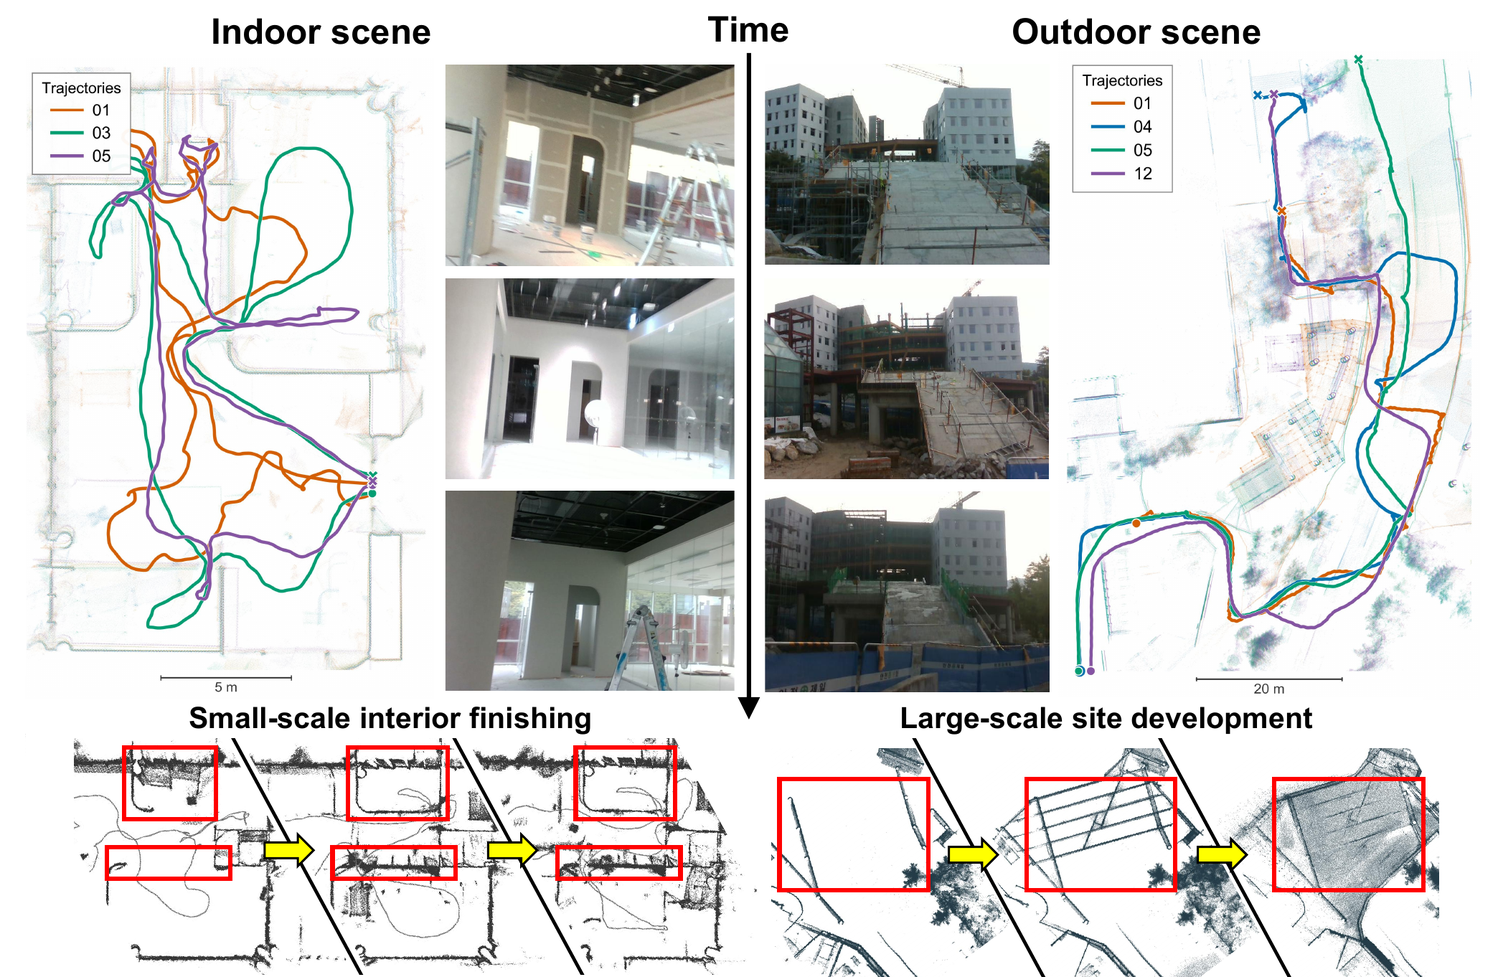
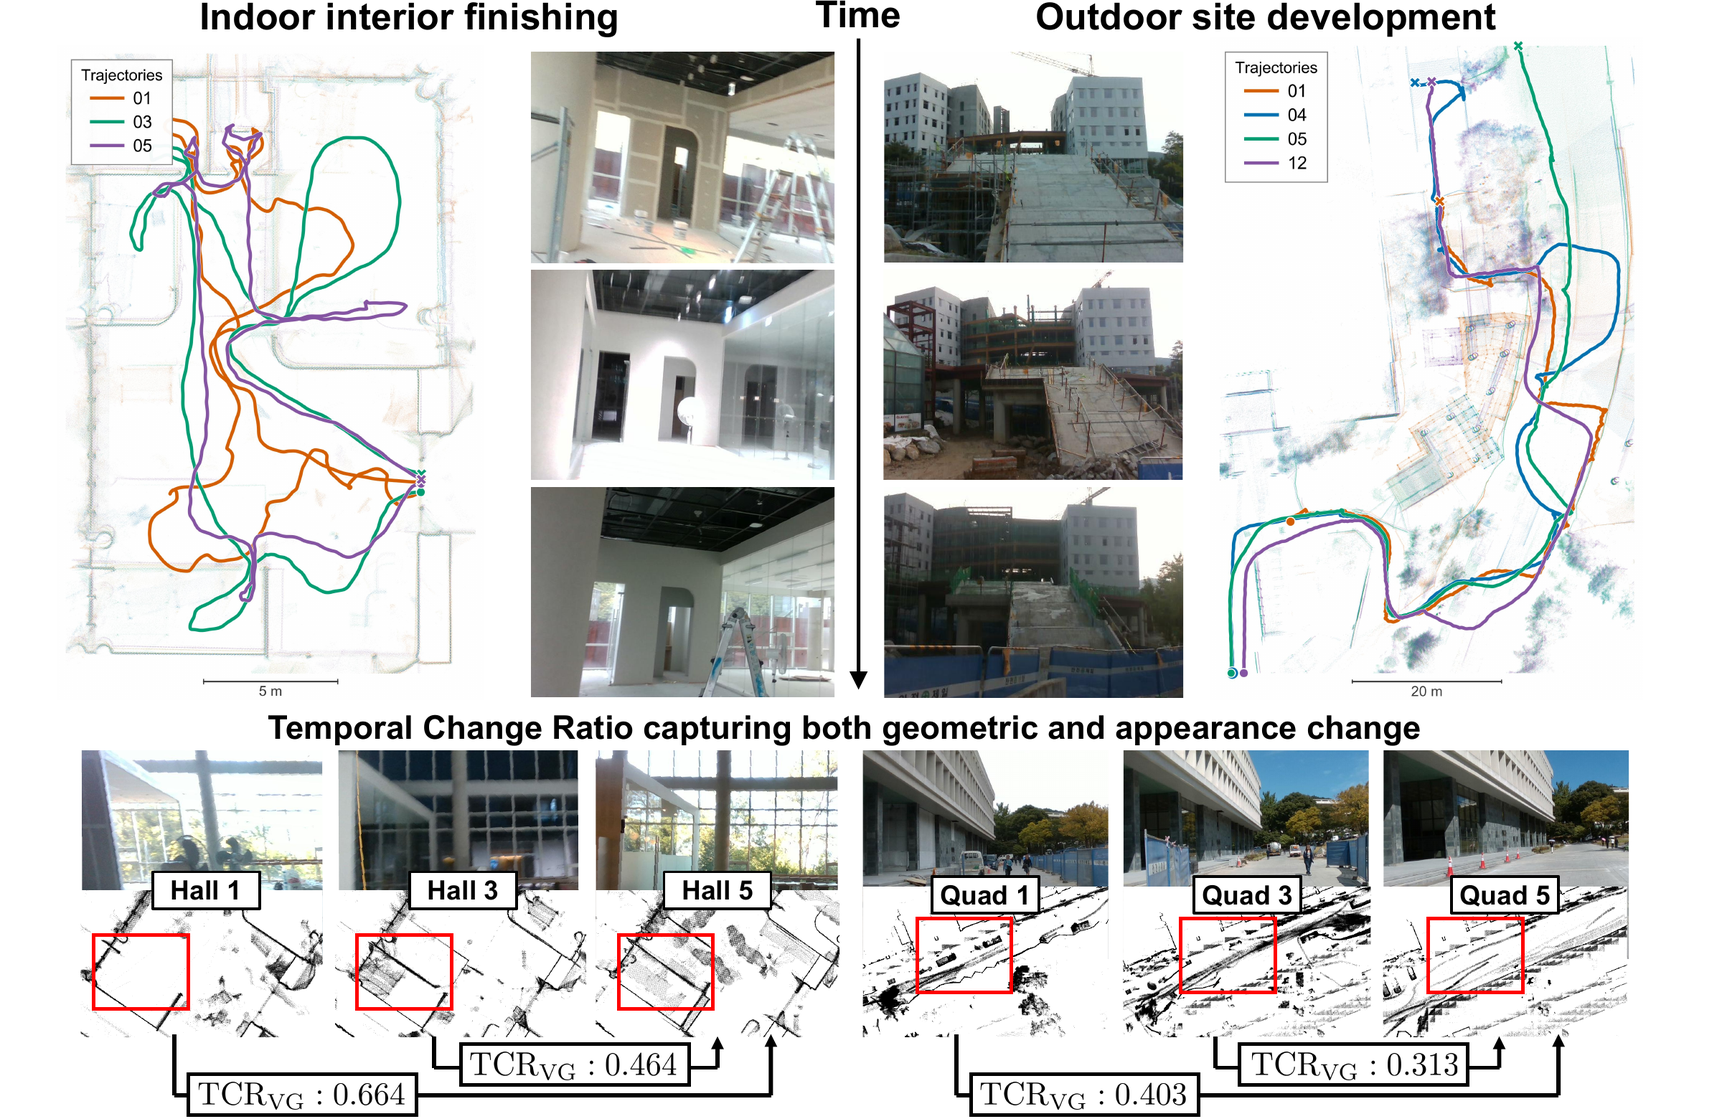
Refresh teaser and pair camera views with session point clouds

diff --git a/sequences.html b/sequences.html
@@ -3,11 +3,11 @@
 <head>
   <meta charset="utf-8">
   <meta name="viewport" content="width=device-width, initial-scale=1">
-  <meta name="description" content="Explore 22 ConPR++ recording sessions across Hall, Office, and Quad, with maps, trajectories, RGB examples, and session statistics.">
+  <meta name="description" content="Explore 22 ConPR++ recording sessions across Hall, Office, and Quad, with maps, trajectories, paired camera and LiDAR views, and session statistics.">
   <meta name="theme-color" content="#ffffff">
   <title>Sequences | ConPR++</title>
   <link rel="icon" href="./assets/favicon.svg" type="image/svg+xml">
-  <link rel="stylesheet" href="./assets/site.css?v=1628724484">
+  <link rel="stylesheet" href="./assets/site.css?v=5fd6f94d15">
 </head>
 <body>
 <a class="skip-link" href="#main">Skip to content</a>
@@ -76,12 +76,44 @@
         <div><dt>Images</dt><dd>12,032</dd></div>
       </dl>
     </div>
-    <div class="sample-strip">
-      <figure class="content-figure"><a href="./assets/images/sequences/hall-01.png" target="_blank" rel="noopener" aria-label="Enlarge the RGB sample for Hall, session 01"><img src="./assets/images/sequences/hall-01.png" width="528" height="297" loading="lazy" alt="Representative RGB observation from Hall, session 01, recorded during the day on 2026-09-05."></a><figcaption><strong>01</strong><time datetime="2026-09-05">2026-09-05</time><span>Day</span></figcaption></figure>
-      <figure class="content-figure"><a href="./assets/images/sequences/hall-03.png" target="_blank" rel="noopener" aria-label="Enlarge the RGB sample for Hall, session 03"><img src="./assets/images/sequences/hall-03.png" width="528" height="297" loading="lazy" alt="Representative RGB observation from Hall, session 03, recorded during the night on 2026-09-14."></a><figcaption><strong>03</strong><time datetime="2026-09-14">2026-09-14</time><span>Night</span></figcaption></figure>
-      <figure class="content-figure"><a href="./assets/images/sequences/hall-05.png" target="_blank" rel="noopener" aria-label="Enlarge the RGB sample for Hall, session 05"><img src="./assets/images/sequences/hall-05.png" width="528" height="297" loading="lazy" alt="Representative RGB observation from Hall, session 05, recorded during the day on 2026-09-22."></a><figcaption><strong>05</strong><time datetime="2026-09-22">2026-09-22</time><span>Day</span></figcaption></figure>
-    </div>
-    <p class="figure-note">Representative observations from selected sessions; viewpoints may differ between images.</p>
+    <section class="temporal-comparison" aria-labelledby="hall-changes">
+      <h3 id="hall-changes">Changes across sessions</h3>
+      <div class="session-comparison-grid">
+        <article class="session-comparison" aria-label="Hall, session 01, 2026-09-05">
+          <header class="session-comparison-heading"><h4>01</h4><time datetime="2026-09-05">2026-09-05</time><span class="time-tag">Day</span></header>
+          <figure class="content-figure">
+            <figcaption>Camera</figcaption>
+            <a href="./assets/images/sequences/temporal/hall-01-camera.png" target="_blank" rel="noopener" aria-label="Enlarge Camera for Hall, session 01"><img src="./assets/images/sequences/temporal/hall-01-camera.png" width="1280" height="720" loading="lazy" alt="Camera image from Hall, session 01, recorded on 2026-09-05."></a>
+          </figure>
+          <figure class="content-figure">
+            <figcaption>LiDAR (BEV)</figcaption>
+            <a href="./assets/images/sequences/temporal/hall-01-bev.png" target="_blank" rel="noopener" aria-label="Enlarge LiDAR (BEV) for Hall, session 01"><img src="./assets/images/sequences/temporal/hall-01-bev.png" width="1280" height="720" loading="lazy" alt="Bird’s-eye view of the LiDAR point cloud from Hall, session 01, recorded on 2026-09-05."></a>
+          </figure>
+        </article>
+        <article class="session-comparison" aria-label="Hall, session 03, 2026-09-14">
+          <header class="session-comparison-heading"><h4>03</h4><time datetime="2026-09-14">2026-09-14</time><span class="time-tag is-night">Night</span></header>
+          <figure class="content-figure">
+            <figcaption>Camera</figcaption>
+            <a href="./assets/images/sequences/temporal/hall-03-camera.png" target="_blank" rel="noopener" aria-label="Enlarge Camera for Hall, session 03"><img src="./assets/images/sequences/temporal/hall-03-camera.png" width="1280" height="720" loading="lazy" alt="Camera image from Hall, session 03, recorded on 2026-09-14."></a>
+          </figure>
+          <figure class="content-figure">
+            <figcaption>LiDAR (BEV)</figcaption>
+            <a href="./assets/images/sequences/temporal/hall-03-bev.png" target="_blank" rel="noopener" aria-label="Enlarge LiDAR (BEV) for Hall, session 03"><img src="./assets/images/sequences/temporal/hall-03-bev.png" width="1280" height="720" loading="lazy" alt="Bird’s-eye view of the LiDAR point cloud from Hall, session 03, recorded on 2026-09-14."></a>
+          </figure>
+        </article>
+        <article class="session-comparison" aria-label="Hall, session 05, 2026-09-22">
+          <header class="session-comparison-heading"><h4>05</h4><time datetime="2026-09-22">2026-09-22</time><span class="time-tag">Day</span></header>
+          <figure class="content-figure">
+            <figcaption>Camera</figcaption>
+            <a href="./assets/images/sequences/temporal/hall-05-camera.png" target="_blank" rel="noopener" aria-label="Enlarge Camera for Hall, session 05"><img src="./assets/images/sequences/temporal/hall-05-camera.png" width="1280" height="720" loading="lazy" alt="Camera image from Hall, session 05, recorded on 2026-09-22."></a>
+          </figure>
+          <figure class="content-figure">
+            <figcaption>LiDAR (BEV)</figcaption>
+            <a href="./assets/images/sequences/temporal/hall-05-bev.png" target="_blank" rel="noopener" aria-label="Enlarge LiDAR (BEV) for Hall, session 05"><img src="./assets/images/sequences/temporal/hall-05-bev.png" width="1280" height="720" loading="lazy" alt="Bird’s-eye view of the LiDAR point cloud from Hall, session 05, recorded on 2026-09-22."></a>
+          </figure>
+        </article>
+      </div>
+    </section>
     <div class="table-wrap" role="region" aria-label="Hall recording sessions" tabindex="0">
       <table class="data-table session-table">
         <caption>Hall recording sessions</caption>
@@ -113,12 +145,44 @@
         <div><dt>Images</dt><dd>137,178</dd></div>
       </dl>
     </div>
-    <div class="sample-strip">
-      <figure class="content-figure"><a href="./assets/images/sequences/office-01.png" target="_blank" rel="noopener" aria-label="Enlarge the RGB sample for Office, session 01"><img src="./assets/images/sequences/office-01.png" width="400" height="300" loading="lazy" alt="Representative RGB observation from Office, session 01, recorded during the day on 2023-05-31."></a><figcaption><strong>01</strong><time datetime="2023-05-31">2023-05-31</time><span>Day</span></figcaption></figure>
-      <figure class="content-figure"><a href="./assets/images/sequences/office-07.png" target="_blank" rel="noopener" aria-label="Enlarge the RGB sample for Office, session 07"><img src="./assets/images/sequences/office-07.png" width="400" height="300" loading="lazy" alt="Representative RGB observation from Office, session 07, recorded during the day on 2023-07-06."></a><figcaption><strong>07</strong><time datetime="2023-07-06">2023-07-06</time><span>Day</span></figcaption></figure>
-      <figure class="content-figure"><a href="./assets/images/sequences/office-12.png" target="_blank" rel="noopener" aria-label="Enlarge the RGB sample for Office, session 12"><img src="./assets/images/sequences/office-12.png" width="400" height="300" loading="lazy" alt="Representative RGB observation from Office, session 12, recorded during the day on 2023-08-18."></a><figcaption><strong>12</strong><time datetime="2023-08-18">2023-08-18</time><span>Day</span></figcaption></figure>
-    </div>
-    <p class="figure-note">Representative observations from selected sessions; viewpoints may differ between images.</p>
+    <section class="temporal-comparison" aria-labelledby="office-changes">
+      <h3 id="office-changes">Changes across sessions</h3>
+      <div class="session-comparison-grid">
+        <article class="session-comparison" aria-label="Office, session 03, 2023-06-11">
+          <header class="session-comparison-heading"><h4>03</h4><time datetime="2023-06-11">2023-06-11</time><span class="time-tag">Day</span></header>
+          <figure class="content-figure">
+            <figcaption>Camera</figcaption>
+            <a href="./assets/images/sequences/temporal/office-03-camera.png" target="_blank" rel="noopener" aria-label="Enlarge Camera for Office, session 03"><img src="./assets/images/sequences/temporal/office-03-camera.png" width="640" height="480" loading="lazy" alt="Camera image from Office, session 03, recorded on 2023-06-11."></a>
+          </figure>
+          <figure class="content-figure">
+            <figcaption>LiDAR (BEV)</figcaption>
+            <a href="./assets/images/sequences/temporal/office-03-bev.png" target="_blank" rel="noopener" aria-label="Enlarge LiDAR (BEV) for Office, session 03"><img src="./assets/images/sequences/temporal/office-03-bev.png" width="640" height="480" loading="lazy" alt="Bird’s-eye view of the LiDAR point cloud from Office, session 03, recorded on 2023-06-11."></a>
+          </figure>
+        </article>
+        <article class="session-comparison" aria-label="Office, session 11, 2023-08-13">
+          <header class="session-comparison-heading"><h4>11</h4><time datetime="2023-08-13">2023-08-13</time><span class="time-tag is-night">Night</span></header>
+          <figure class="content-figure">
+            <figcaption>Camera</figcaption>
+            <a href="./assets/images/sequences/temporal/office-11-camera.png" target="_blank" rel="noopener" aria-label="Enlarge Camera for Office, session 11"><img src="./assets/images/sequences/temporal/office-11-camera.png" width="640" height="480" loading="lazy" alt="Camera image from Office, session 11, recorded on 2023-08-13."></a>
+          </figure>
+          <figure class="content-figure">
+            <figcaption>LiDAR (BEV)</figcaption>
+            <a href="./assets/images/sequences/temporal/office-11-bev.png" target="_blank" rel="noopener" aria-label="Enlarge LiDAR (BEV) for Office, session 11"><img src="./assets/images/sequences/temporal/office-11-bev.png" width="640" height="480" loading="lazy" alt="Bird’s-eye view of the LiDAR point cloud from Office, session 11, recorded on 2023-08-13."></a>
+          </figure>
+        </article>
+        <article class="session-comparison" aria-label="Office, session 12, 2023-08-18">
+          <header class="session-comparison-heading"><h4>12</h4><time datetime="2023-08-18">2023-08-18</time><span class="time-tag">Day</span></header>
+          <figure class="content-figure">
+            <figcaption>Camera</figcaption>
+            <a href="./assets/images/sequences/temporal/office-12-camera.png" target="_blank" rel="noopener" aria-label="Enlarge Camera for Office, session 12"><img src="./assets/images/sequences/temporal/office-12-camera.png" width="640" height="480" loading="lazy" alt="Camera image from Office, session 12, recorded on 2023-08-18."></a>
+          </figure>
+          <figure class="content-figure">
+            <figcaption>LiDAR (BEV)</figcaption>
+            <a href="./assets/images/sequences/temporal/office-12-bev.png" target="_blank" rel="noopener" aria-label="Enlarge LiDAR (BEV) for Office, session 12"><img src="./assets/images/sequences/temporal/office-12-bev.png" width="640" height="480" loading="lazy" alt="Bird’s-eye view of the LiDAR point cloud from Office, session 12, recorded on 2023-08-18."></a>
+          </figure>
+        </article>
+      </div>
+    </section>
     <div class="table-wrap" role="region" aria-label="Office recording sessions" tabindex="0">
       <table class="data-table session-table">
         <caption>Office recording sessions</caption>
@@ -157,12 +221,44 @@
         <div><dt>Images</dt><dd>18,946</dd></div>
       </dl>
     </div>
-    <div class="sample-strip">
-      <figure class="content-figure"><a href="./assets/images/sequences/quad-01.png" target="_blank" rel="noopener" aria-label="Enlarge the RGB sample for Quad, session 01"><img src="./assets/images/sequences/quad-01.png" width="528" height="297" loading="lazy" alt="Representative RGB observation from Quad, session 01, recorded during the day on 2026-09-17."></a><figcaption><strong>01</strong><time datetime="2026-09-17">2026-09-17</time><span>Day</span></figcaption></figure>
-      <figure class="content-figure"><a href="./assets/images/sequences/quad-03.png" target="_blank" rel="noopener" aria-label="Enlarge the RGB sample for Quad, session 03"><img src="./assets/images/sequences/quad-03.png" width="528" height="297" loading="lazy" alt="Representative RGB observation from Quad, session 03, recorded during the day on 2026-09-22."></a><figcaption><strong>03</strong><time datetime="2026-09-22">2026-09-22</time><span>Day</span></figcaption></figure>
-      <figure class="content-figure"><a href="./assets/images/sequences/quad-05.png" target="_blank" rel="noopener" aria-label="Enlarge the RGB sample for Quad, session 05"><img src="./assets/images/sequences/quad-05.png" width="528" height="297" loading="lazy" alt="Representative RGB observation from Quad, session 05, recorded during the day on 2026-10-06."></a><figcaption><strong>05</strong><time datetime="2026-10-06">2026-10-06</time><span>Day</span></figcaption></figure>
-    </div>
-    <p class="figure-note">Representative observations from selected sessions; viewpoints may differ between images.</p>
+    <section class="temporal-comparison" aria-labelledby="quad-changes">
+      <h3 id="quad-changes">Changes across sessions</h3>
+      <div class="session-comparison-grid">
+        <article class="session-comparison" aria-label="Quad, session 02, 2026-09-18">
+          <header class="session-comparison-heading"><h4>02</h4><time datetime="2026-09-18">2026-09-18</time><span class="time-tag">Day</span></header>
+          <figure class="content-figure">
+            <figcaption>Camera</figcaption>
+            <a href="./assets/images/sequences/temporal/quad-02-camera.png" target="_blank" rel="noopener" aria-label="Enlarge Camera for Quad, session 02"><img src="./assets/images/sequences/temporal/quad-02-camera.png" width="1280" height="720" loading="lazy" alt="Camera image from Quad, session 02, recorded on 2026-09-18."></a>
+          </figure>
+          <figure class="content-figure">
+            <figcaption>LiDAR (BEV)</figcaption>
+            <a href="./assets/images/sequences/temporal/quad-02-bev.png" target="_blank" rel="noopener" aria-label="Enlarge LiDAR (BEV) for Quad, session 02"><img src="./assets/images/sequences/temporal/quad-02-bev.png" width="1280" height="720" loading="lazy" alt="Bird’s-eye view of the LiDAR point cloud from Quad, session 02, recorded on 2026-09-18."></a>
+          </figure>
+        </article>
+        <article class="session-comparison" aria-label="Quad, session 04, 2026-09-29">
+          <header class="session-comparison-heading"><h4>04</h4><time datetime="2026-09-29">2026-09-29</time><span class="time-tag">Day</span></header>
+          <figure class="content-figure">
+            <figcaption>Camera</figcaption>
+            <a href="./assets/images/sequences/temporal/quad-04-camera.png" target="_blank" rel="noopener" aria-label="Enlarge Camera for Quad, session 04"><img src="./assets/images/sequences/temporal/quad-04-camera.png" width="1280" height="720" loading="lazy" alt="Camera image from Quad, session 04, recorded on 2026-09-29."></a>
+          </figure>
+          <figure class="content-figure">
+            <figcaption>LiDAR (BEV)</figcaption>
+            <a href="./assets/images/sequences/temporal/quad-04-bev.png" target="_blank" rel="noopener" aria-label="Enlarge LiDAR (BEV) for Quad, session 04"><img src="./assets/images/sequences/temporal/quad-04-bev.png" width="1280" height="720" loading="lazy" alt="Bird’s-eye view of the LiDAR point cloud from Quad, session 04, recorded on 2026-09-29."></a>
+          </figure>
+        </article>
+        <article class="session-comparison" aria-label="Quad, session 05, 2026-10-06">
+          <header class="session-comparison-heading"><h4>05</h4><time datetime="2026-10-06">2026-10-06</time><span class="time-tag">Day</span></header>
+          <figure class="content-figure">
+            <figcaption>Camera</figcaption>
+            <a href="./assets/images/sequences/temporal/quad-05-camera.png" target="_blank" rel="noopener" aria-label="Enlarge Camera for Quad, session 05"><img src="./assets/images/sequences/temporal/quad-05-camera.png" width="1280" height="720" loading="lazy" alt="Camera image from Quad, session 05, recorded on 2026-10-06."></a>
+          </figure>
+          <figure class="content-figure">
+            <figcaption>LiDAR (BEV)</figcaption>
+            <a href="./assets/images/sequences/temporal/quad-05-bev.png" target="_blank" rel="noopener" aria-label="Enlarge LiDAR (BEV) for Quad, session 05"><img src="./assets/images/sequences/temporal/quad-05-bev.png" width="1280" height="720" loading="lazy" alt="Bird’s-eye view of the LiDAR point cloud from Quad, session 05, recorded on 2026-10-06."></a>
+          </figure>
+        </article>
+      </div>
+    </section>
     <div class="table-wrap" role="region" aria-label="Quad recording sessions" tabindex="0">
       <table class="data-table session-table">
         <caption>Quad recording sessions</caption>

diff --git a/assets/site.css b/assets/site.css
@@ -168,10 +168,15 @@ h2 { font-size: 30px; line-height: 1.3; letter-spacing: -.5px; font-weight: 700;
 .site-facts > div { margin-bottom: 14px; }
 .site-facts dt { color: #7b8592; font-size: 11px; margin-bottom: 2px; }
 .site-facts dd { margin: 0; color: #354255; font-weight: 550; font-variant-numeric: tabular-nums; }
-.sample-strip { display: grid; grid-template-columns: repeat(3, 1fr); gap: 18px; margin-top: 30px; }
-.sample-strip figcaption { display: flex; align-items: center; flex-wrap: wrap; gap: 4px 10px; font-size: 11px; }
-.sample-strip figcaption strong { color: #414d5d; font-size: 12px; }
-.sample-strip figcaption span { margin-left: auto; font-size: 10px; color: #8390a1; }
+.temporal-comparison { margin-top: 32px; }
+.session-comparison-grid { display: grid; grid-template-columns: repeat(3, minmax(0, 1fr)); gap: 24px; }
+.session-comparison { min-width: 0; }
+.session-comparison-heading { display: flex; align-items: baseline; flex-wrap: wrap; gap: 6px 10px; border-top: 2px solid #dce4ed; padding-top: 12px; margin-bottom: 16px; font-variant-numeric: tabular-nums; }
+.session-comparison-heading h4 { margin: 0; color: var(--ink); font-size: 17px; font-weight: 650; line-height: 1.5; }
+.session-comparison-heading time { font-size: 12px; color: #657080; }
+.session-comparison-heading .time-tag { margin-left: auto; }
+.session-comparison .content-figure + .content-figure { margin-top: 18px; }
+.session-comparison .content-figure figcaption { margin: 0 0 8px; font-size: 11px; font-weight: 550; color: #657080; }
 .session-table { min-width: 680px; }
 .time-tag { font-size: 11px; color: #6b7685; }
 .time-tag.is-night { color: #435f94; background: #edf1f8; border-radius: 3px; padding: 3px 7px; }
@@ -217,9 +222,8 @@ h2 { font-size: 30px; line-height: 1.3; letter-spacing: -.5px; font-weight: 700;
   .site-facts { padding: 18px 0 0; border-left: 0; border-top: 1px solid var(--line); display: grid; grid-template-columns: 1fr 1fr; gap: 16px; }
   .site-facts > div { margin-bottom: 0; }
   .site-facts > div:first-child { grid-column: 1 / -1; }
-  .sample-strip { grid-template-columns: 1fr; gap: 22px; }
-  .sample-strip img { max-width: 528px; margin: 0 auto; }
-  .sample-strip figcaption { max-width: 528px; margin-left: auto; margin-right: auto; }
+  .session-comparison-grid { grid-template-columns: 1fr; gap: 30px; }
+  .session-comparison { max-width: 528px; width: 100%; margin: 0 auto; }
   .data-table th, .data-table td { padding: 11px 13px; }
   .table-wrap { margin-top: 24px; }
   .content-section .figure-note, .content-section .table-note { font-size: 11px; }

diff --git a/index.html b/index.html
@@ -7,7 +7,7 @@
   <meta name="theme-color" content="#ffffff">
   <title>ConPR++: A Multi-Site Indoor-Outdoor Construction Dataset for Place Recognition under Progressive Structural Change</title>
   <link rel="icon" href="./assets/favicon.svg" type="image/svg+xml">
-  <link rel="stylesheet" href="./assets/site.css?v=1628724484">
+  <link rel="stylesheet" href="./assets/site.css?v=5fd6f94d15">
 </head>
 <body>
 <a class="skip-link" href="#main">Skip to content</a>
@@ -35,8 +35,8 @@
   </section>
 
   <figure class="teaser">
-    <a class="teaser-link" href="./assets/images/teaser.png" target="_blank" rel="noopener" aria-label="View the teaser figure at full resolution (opens in a new tab)">
-      <img src="./assets/images/teaser.png" width="2088" height="1362" fetchpriority="high" alt="Indoor and outdoor construction scenes observed over time, with repeated trajectories and point clouds highlighting small-scale interior finishing and large-scale site development.">
+    <a class="teaser-link" href="./assets/images/teaser.png?v=5a9afc2f00" target="_blank" rel="noopener" aria-label="View the teaser figure at full resolution (opens in a new tab)">
+      <img src="./assets/images/teaser.png?v=5a9afc2f00" width="2400" height="1560" fetchpriority="high" alt="Indoor and outdoor construction scenes observed over time, with repeated trajectories and point clouds highlighting small-scale interior finishing and large-scale site development.">
     </a>
     <figcaption>Structural changes over time at active construction sites. The proposed TCR<sub>VG</sub> jointly captures geometric and appearance variations to quantify environmental changes.</figcaption>
   </figure>

diff --git a/benchmark.html b/benchmark.html
@@ -7,7 +7,7 @@
   <meta name="theme-color" content="#ffffff">
   <title>Benchmark | ConPR++</title>
   <link rel="icon" href="./assets/favicon.svg" type="image/svg+xml">
-  <link rel="stylesheet" href="./assets/site.css?v=1628724484">
+  <link rel="stylesheet" href="./assets/site.css?v=5fd6f94d15">
   <script src="./assets/benchmark-data.js?v=fdeed2bd16" defer></script>
   <script src="./assets/benchmark.js?v=2207ec12f4" defer></script>
 </head>

diff --git a/citation.html b/citation.html
@@ -7,7 +7,7 @@
   <meta name="theme-color" content="#ffffff">
   <title>Citation | ConPR++</title>
   <link rel="icon" href="./assets/favicon.svg" type="image/svg+xml">
-  <link rel="stylesheet" href="./assets/site.css?v=1628724484">
+  <link rel="stylesheet" href="./assets/site.css?v=5fd6f94d15">
 </head>
 <body>
 <a class="skip-link" href="#main">Skip to content</a>

diff --git a/download.html b/download.html
@@ -7,7 +7,7 @@
   <meta name="theme-color" content="#ffffff">
   <title>Download | ConPR++</title>
   <link rel="icon" href="./assets/favicon.svg" type="image/svg+xml">
-  <link rel="stylesheet" href="./assets/site.css?v=1628724484">
+  <link rel="stylesheet" href="./assets/site.css?v=5fd6f94d15">
 </head>
 <body>
 <a class="skip-link" href="#main">Skip to content</a>

diff --git a/system.html b/system.html
@@ -7,7 +7,7 @@
   <meta name="theme-color" content="#ffffff">
   <title>System | ConPR++</title>
   <link rel="icon" href="./assets/favicon.svg" type="image/svg+xml">
-  <link rel="stylesheet" href="./assets/site.css?v=1628724484">
+  <link rel="stylesheet" href="./assets/site.css?v=5fd6f94d15">
 </head>
 <body>
 <a class="skip-link" href="#main">Skip to content</a>
